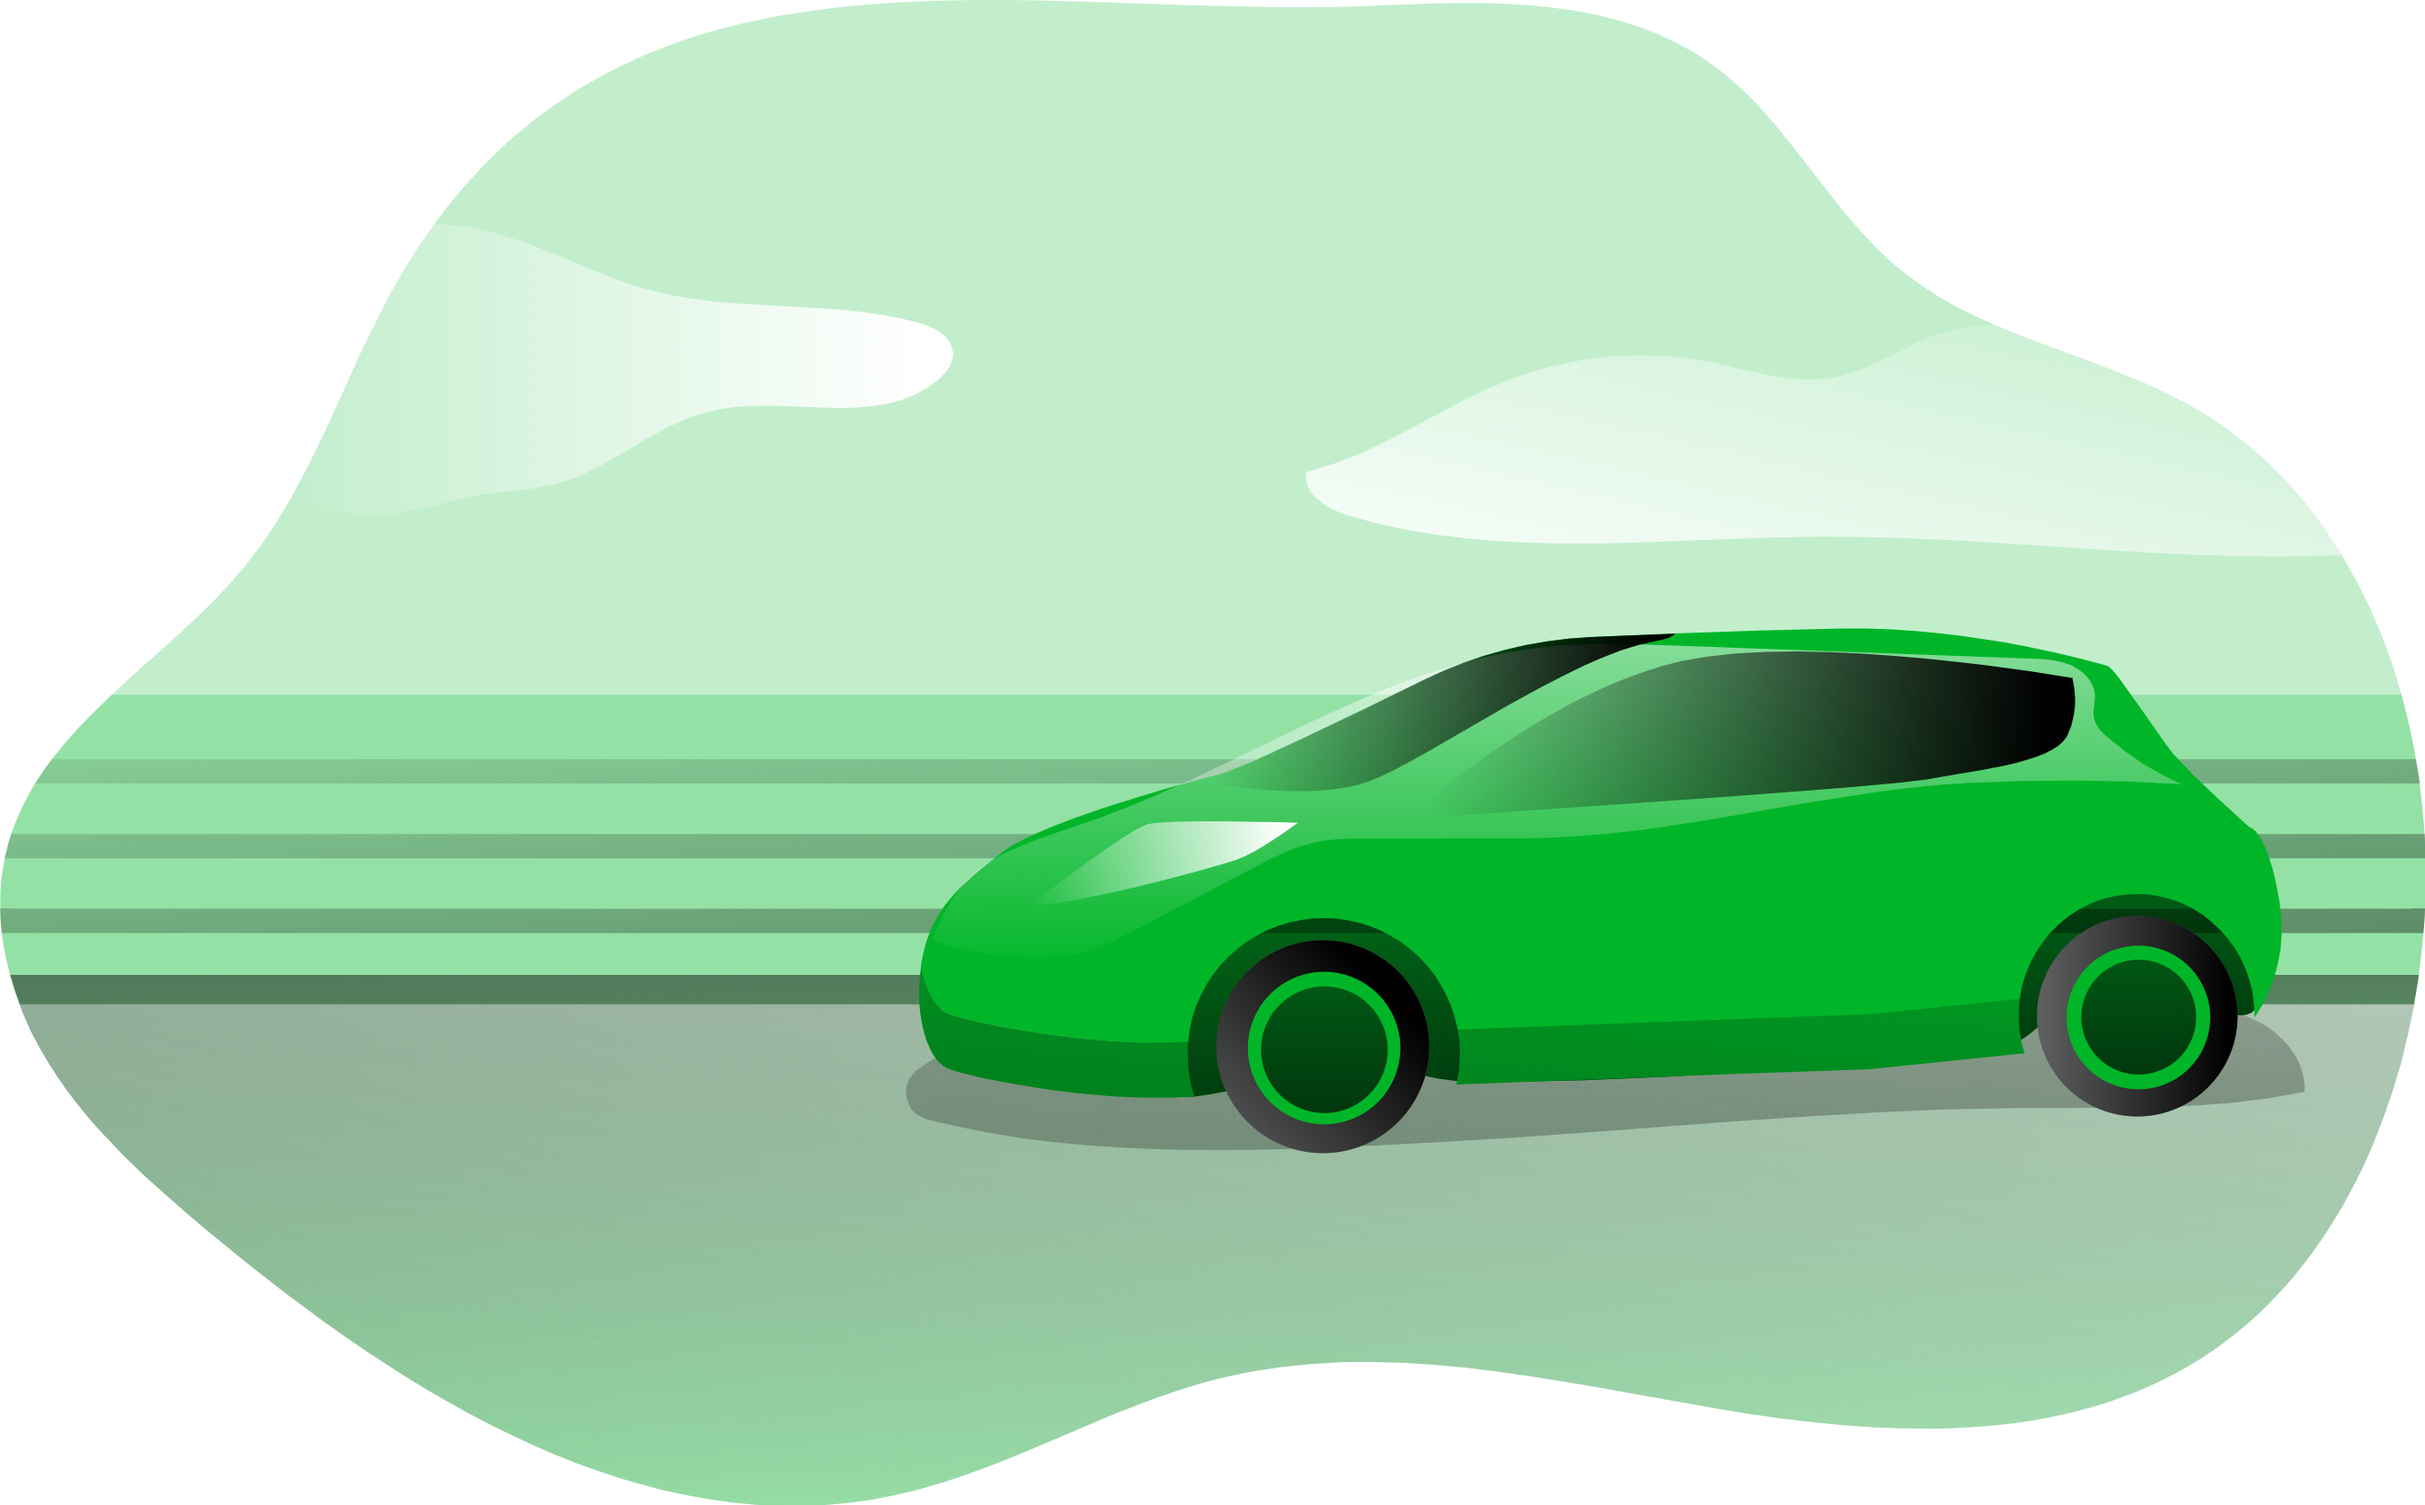
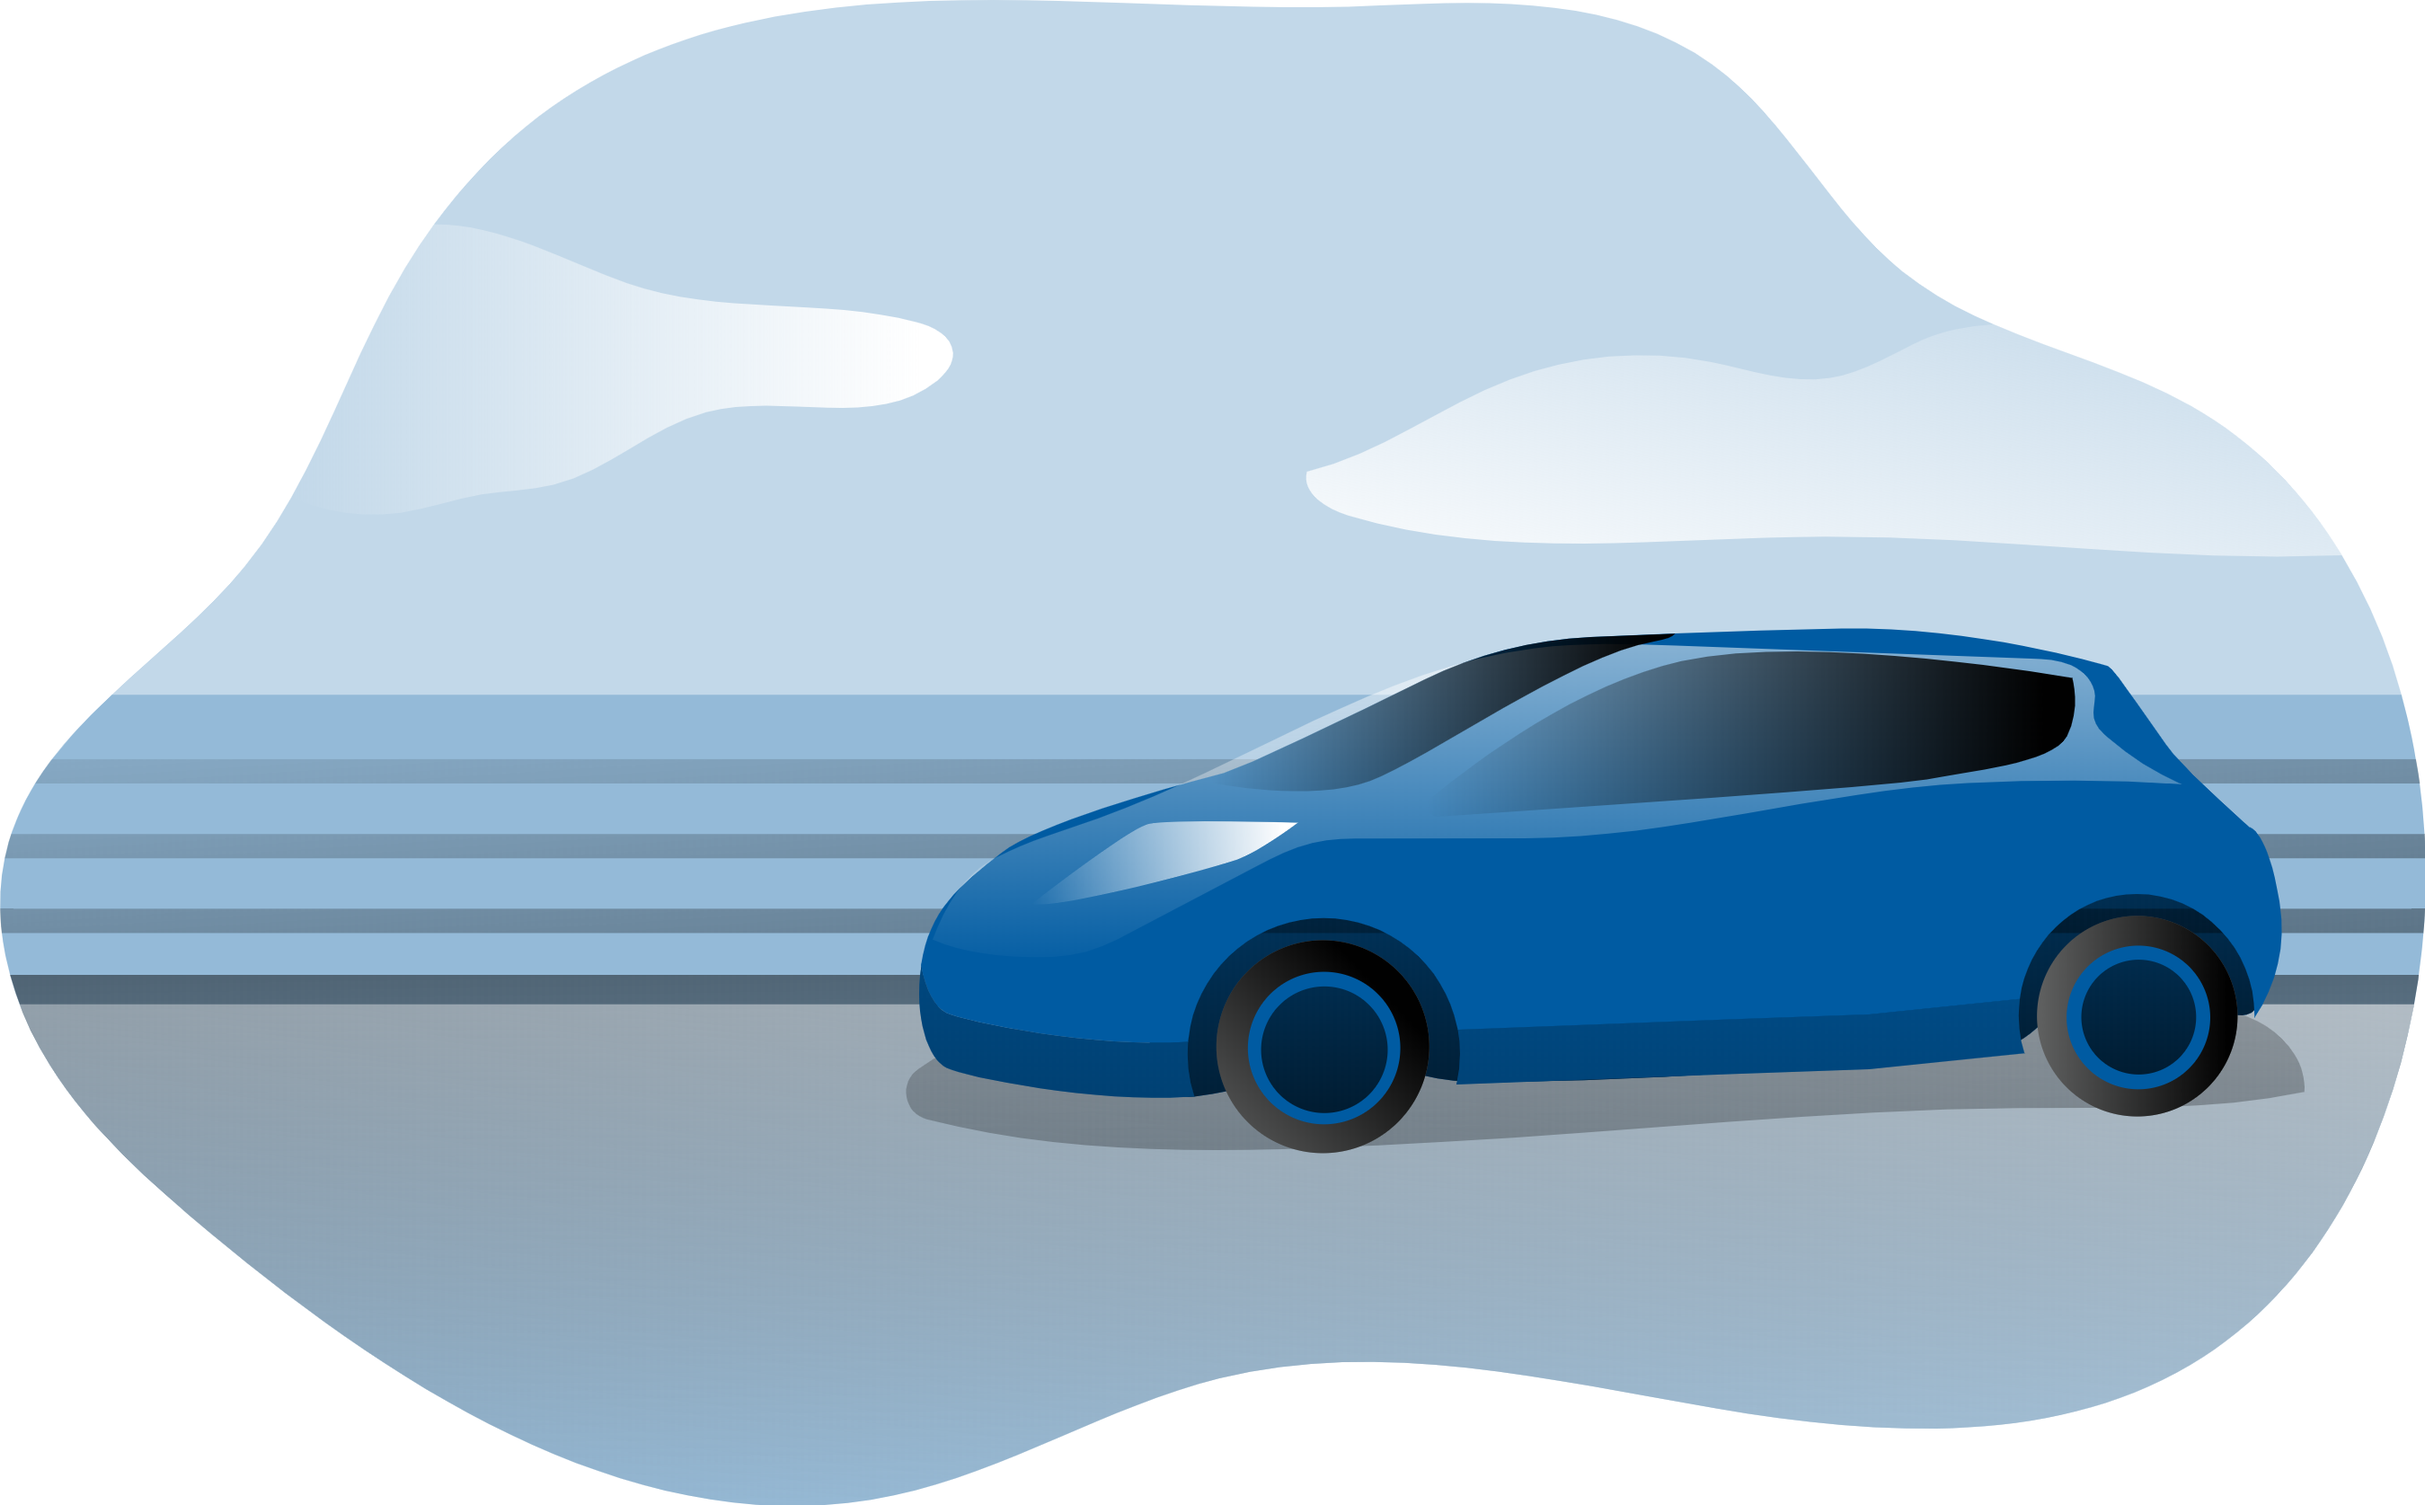
Find a car page

diff --git a/src/pages/FindACar/index.js b/src/pages/FindACar/index.js
@@ -1,16 +1,126 @@
 import React from 'react';
+import { SimpleLineIcons } from '@expo/vector-icons';
+import { useNavigation } from '@react-navigation/native';
+
 import {
+    BackToHome,
+    Cars,
+    Car,
+    CarContent,
+    CarTexts,
     Container,
+    Content,
+    ContentTitle,
     Header,
-    HeaderTitle
+    HeaderTitle,
+    HeaderTop,
+    LocationBar,
+    LocationInput,
+    Name,
+    Photo,
+    Profile,
+    ProfileImg,
+    Value
   } from './styles';
 
 export default function FindACar() {
+    const navigation = useNavigation(); 
+
+    function handleNavigateBack() {
+        navigation.goBack();
+    }
+
     return (
         <Container>
             <Header>
+                <HeaderTop>
+                    <BackToHome onPress={() => handleNavigateBack()}>
+                        <SimpleLineIcons name="arrow-left" size={18} color="#fff" />
+                    </BackToHome>
+                    <Profile>
+                        <ProfileImg source={require('../../assets/man.png')} />
+                    </Profile>
+                </HeaderTop>
+
                 <HeaderTitle>Encontrar um carro</HeaderTitle>
+                <LocationBar>
+                    <SimpleLineIcons name="location-pin" size={18} color="#005BA2" />
+                    <LocationInput />
+                </LocationBar>
             </Header>
+
+            <Content>
+                <ContentTitle>7 Resultados Encontrados</ContentTitle>
+                <Cars>
+                    <Car>
+                        <Photo source={require('../../assets/fiesta.jpg')}  />
+                        <CarContent>
+                            <CarTexts>
+                                <Name>Ford Ka Sedan 1.5</Name>
+                                <Value>R$ 60,00 / dia</Value>
+                            </CarTexts>                           
+                            <SimpleLineIcons name="arrow-right" size={18} color="#005BA2" />
+                        </CarContent>                        
+                    </Car>
+
+                    <Car>
+                        <Photo source={require('../../assets/fiesta.jpg')}  />
+                        <CarContent>
+                            <CarTexts>
+                                <Name>Ford Ka Sedan 1.5</Name>
+                                <Value>R$ 60,00 / dia</Value>
+                            </CarTexts>                           
+                            <SimpleLineIcons name="arrow-right" size={18} color="#005BA2" />
+                        </CarContent>                        
+                    </Car>
+
+                    <Car>
+                        <Photo source={require('../../assets/fiesta.jpg')}  />
+                        <CarContent>
+                            <CarTexts>
+                                <Name>Ford Ka Sedan 1.5</Name>
+                                <Value>R$ 60,00 / dia</Value>
+                            </CarTexts>                           
+                            <SimpleLineIcons name="arrow-right" size={18} color="#005BA2" />
+                        </CarContent>                        
+                    </Car>
+
+                    <Car>
+                        <Photo source={require('../../assets/fiesta.jpg')}  />
+                        <CarContent>
+                            <CarTexts>
+                                <Name>Ford Ka Sedan 1.5</Name>
+                                <Value>R$ 60,00 / dia</Value>
+                            </CarTexts>                           
+                            <SimpleLineIcons name="arrow-right" size={18} color="#005BA2" />
+                        </CarContent>                        
+                    </Car>
+
+                    <Car>
+                        <Photo source={require('../../assets/fiesta.jpg')}  />
+                        <CarContent>
+                            <CarTexts>
+                                <Name>Ford Ka Sedan 1.5</Name>
+                                <Value>R$ 60,00 / dia</Value>
+                            </CarTexts>                           
+                            <SimpleLineIcons name="arrow-right" size={18} color="#005BA2" />
+                        </CarContent>                        
+                    </Car>
+
+                    <Car>
+                        <Photo source={require('../../assets/fiesta.jpg')}  />
+                        <CarContent>
+                            <CarTexts>
+                                <Name>Ford Ka Sedan 1.5</Name>
+                                <Value>R$ 60,00 / dia</Value>
+                            </CarTexts>                           
+                            <SimpleLineIcons name="arrow-right" size={18} color="#005BA2" />
+                        </CarContent>                        
+                    </Car>
+                    
+
+                </Cars>
+            </Content>
         </Container>
     )
 }

diff --git a/src/pages/FindACar/styles.js b/src/pages/FindACar/styles.js
@@ -8,12 +8,33 @@ export const Container = styled.SafeAreaView`
 `;
 
 export const Header = styled.View`
-    background: #00B628;
-    height: 150px;
+    background: #005BA2;
+    height: 160px;
     padding: 22px;
     padding-top: ${Constants.statusBarHeight}px;
     border-bottom-left-radius: 50px;
     border-bottom-right-radius: 50px;
+    justify-content: space-between;
+`;
+
+export const HeaderTop = styled.View`
+    flex-direction: row;
+    align-items: center;
+    justify-content: space-between;
+`;
+
+export const BackToHome = styled.TouchableOpacity`
+   
+`;
+
+export const Profile = styled.TouchableOpacity`
+   
+`;
+
+export const ProfileImg = styled.Image`
+    width: 42px;
+    height: 42px;
+   
 `;
 
 export const HeaderTitle = styled.Text`
@@ -21,3 +42,76 @@ export const HeaderTitle = styled.Text`
     font-size: 18px;
     color: #fff;
 `;
+
+export const LocationBar = styled.View`
+    background: #fff;
+    height: 40px;
+    border-radius: 30px;
+    margin-top: 10px;
+    flex-direction: row;
+    padding: 10px;
+    elevation: 3;
+`;
+
+export const LocationInput = styled.TextInput`
+    flex: 1; 
+    font-family: 'Montserrat_700Bold';
+    font-size: 14px; 
+    margin-left: 5px;
+`;
+
+export const Content = styled.View`
+    padding: 22px;
+    flex: 1;
+`;
+
+
+export const ContentTitle = styled.Text`
+    font-family: 'Montserrat_700Bold';
+    font-size: 14px;
+    color: #000;
+`;
+
+export const Cars = styled.ScrollView`
+    margin-top: 22px;
+`;
+
+export const Car = styled.TouchableOpacity`
+    width: 100%;
+    height: 200px;
+    background: #fff;
+    border-radius: 40px;
+    margin-bottom: 22px;  
+    elevation: 4;
+`;
+
+export const Photo = styled.Image`
+    width: 100%;
+    height: 140px;
+    border-top-left-radius: 40px;
+    border-top-right-radius: 40px;
+
+`;
+
+export const CarContent = styled.View`
+    flex-direction: row;
+    align-items: center;
+    justify-content: space-between;
+    padding: 10px 20px;
+`;
+
+export const CarTexts = styled.View`
+
+`;
+
+export const Name = styled.Text`
+    font-family: 'Montserrat_700Bold';
+    font-size: 14px;
+    color: #000;
+`;
+
+export const Value = styled.Text`
+    font-family: 'Montserrat_600SemiBold';
+    font-size: 12px;
+    color: #005BA2;
+`; 

diff --git a/src/pages/Home/styles.js b/src/pages/Home/styles.js
@@ -12,7 +12,7 @@ export const Container = styled.SafeAreaView`
 export const Title = styled.Text`
     font-family: 'Montserrat_700Bold';
     font-size: 36px;
-    color: #00B628;  
+    color: #005BA2;  
     width: 75%;
 `;
 
@@ -40,14 +40,14 @@ export const Buttons = styled.View`
 export const FindACar = styled.TouchableOpacity`
     width: 100%;
     height: 50px;
-    background: #00B628;
+    background: #005BA2;
     border-radius: 30px;  
     justify-content: center;
 `;
 export const RentMyCar = styled.TouchableOpacity`
     width: 100%;
     height: 50px;
-    border: 2px solid #00B628;
+    border: 2px solid #005BA2;
     border-radius: 30px;
     justify-content: center;
     margin-top: 10px;
@@ -62,6 +62,6 @@ export const FindACarTitle = styled.Text`
 export const RentMyCarTitle = styled.Text`
     font-family: 'Montserrat_700Bold';
     text-align: center;
-    color: #00B628;  
+    color: #005BA2;  
     font-size: 14px;
 `;

diff --git a/src/routes.js b/src/routes.js
@@ -12,7 +12,7 @@ export default function Routes() {
     return (
         
         <NavigationContainer>
-            <StatusBar barStyle="light-content" backgroundColor="#00B628" />
+            <StatusBar barStyle="light-content" backgroundColor="#005BA2" />
         
             <AppStack.Navigator headerMode="none">
                 <AppStack.Screen name="Home" component={Home} />               

diff --git a/src/pages/Home/index.js b/src/pages/Home/index.js
@@ -16,7 +16,7 @@ export default function Home({ navigation }) {
   return (
     <Container>
       <Header>
-        <Title>Personal Rental Car</Title>
+        <Title>Personal Car Rental</Title>
         <Subtitle>Encontre carros para alugar, ou alugue seu carro.</Subtitle>
       </Header>
 
